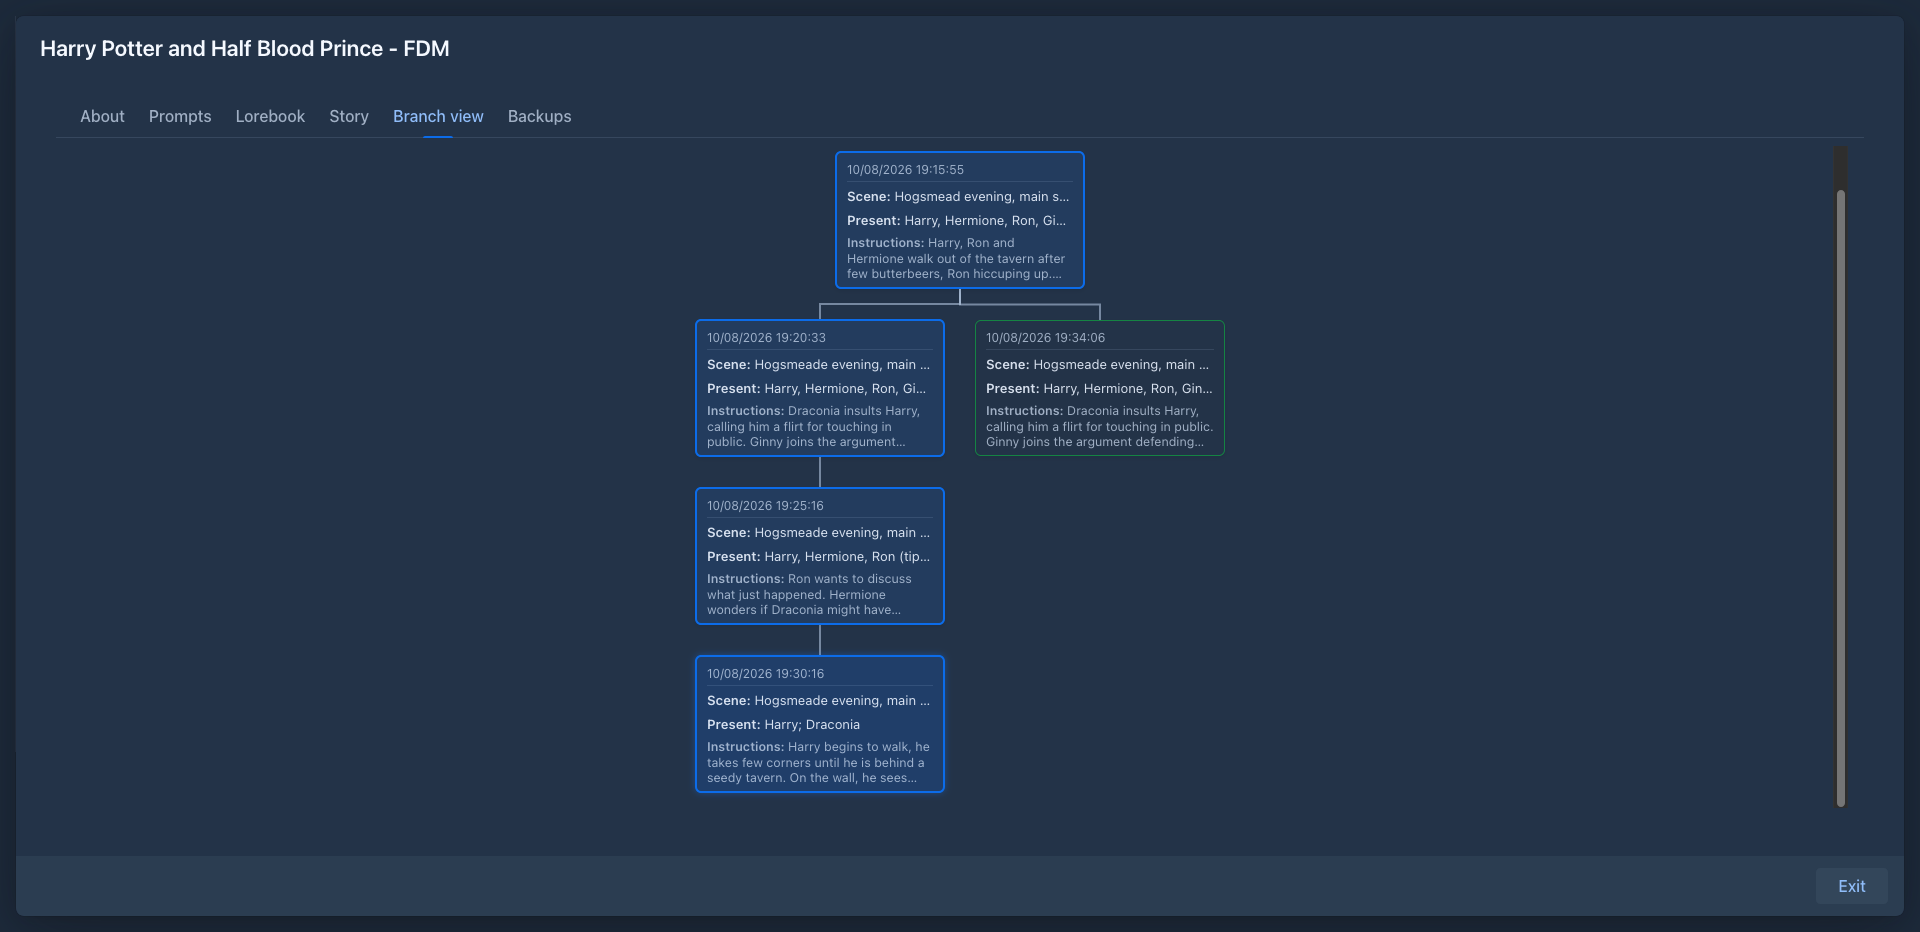
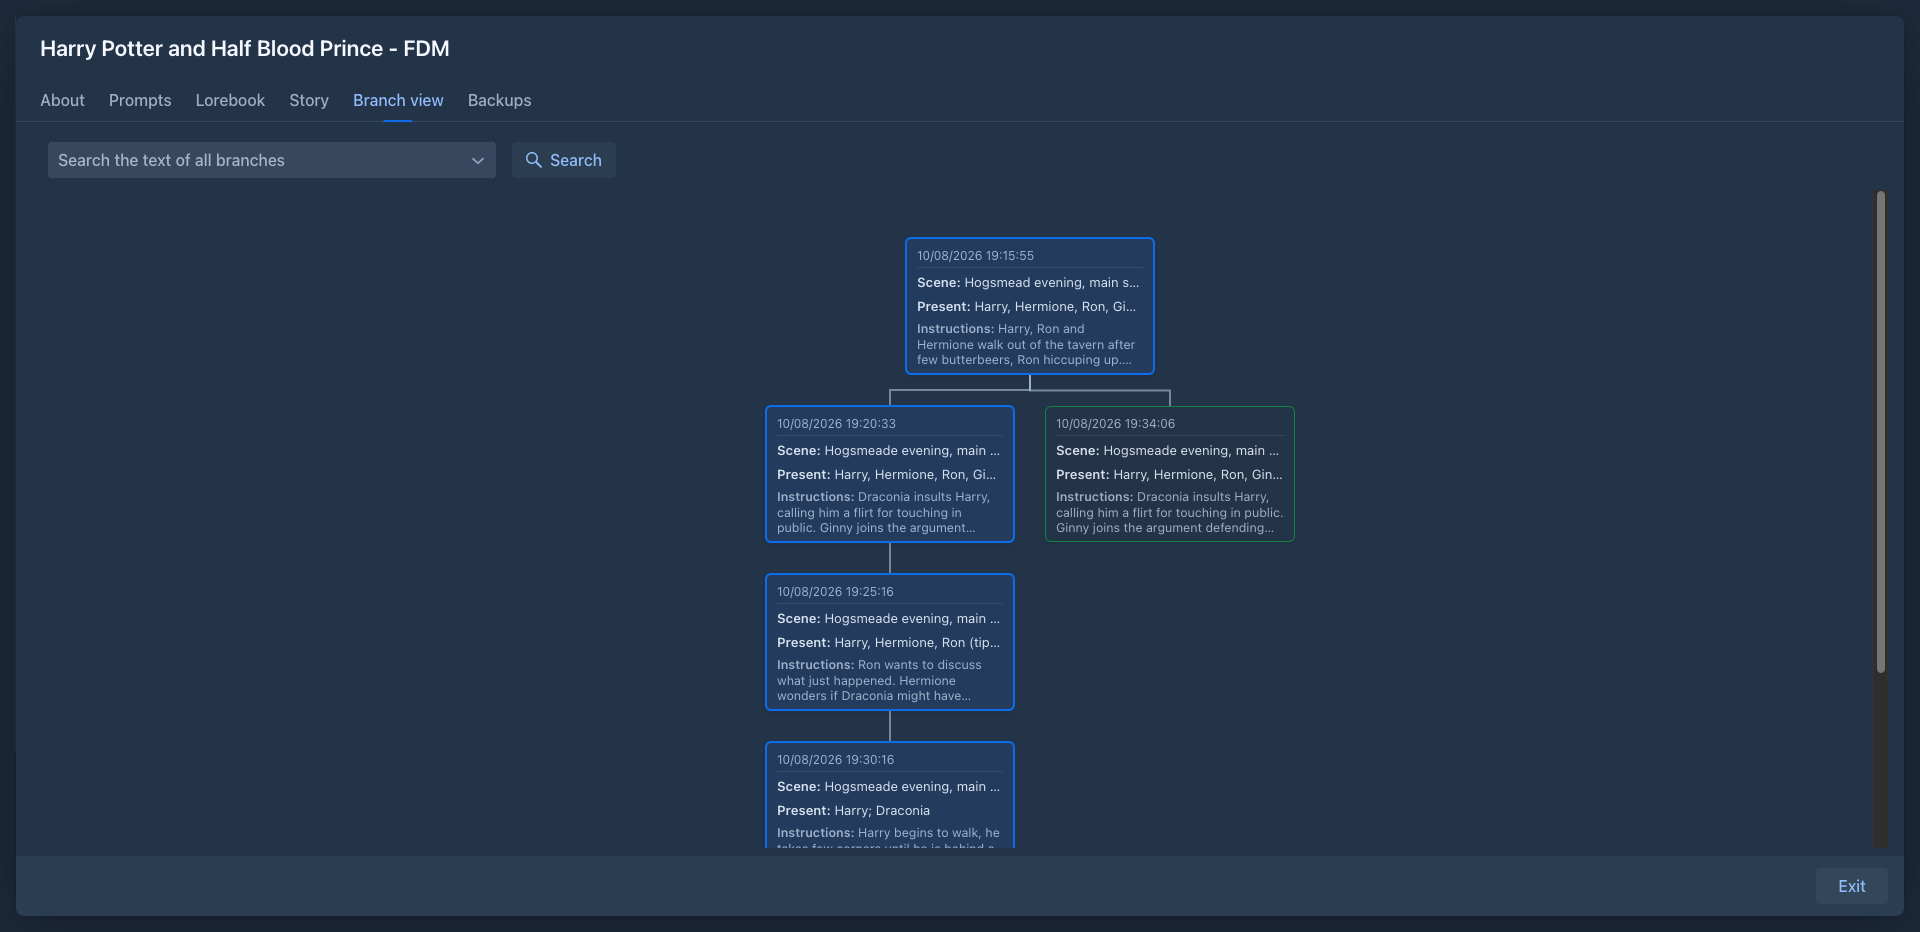
Increment Retype version identifiers across developer docs, update `_fulltext` coverage and migration details, and enhance search and testing documentation

diff --git a/manual/developer/testing.md b/manual/developer/testing.md
@@ -67,7 +67,7 @@ fake is the model server.
 | `test/llm` | `MockLLMServerTest` | The fake OpenAI server against the real `openai-java` client. |
 | `crud` | `*CrudTest`, `OwnedCrudContract`, `ExtendableCrudContract` | Create, update, soft and hard delete, owner isolation and extended attributes of every entity. |
 | `db` | `FlywayMigrationTest`, `FulltextMigrationTest`, `DatabaseRestoreCheckTest` | Migrations on an empty, a V1 and a pre-Flyway database, followed by Hibernate schema validation (`FlywayMigrationTest` also checks that V9 keeps `manuscripts.description` in `extendedContent`); `FulltextMigrationTest` runs the app migration that fills `_fulltext` of existing rows on the Spring context; the check of a database before a restore and the fall back to the previous database when a restore fails on start (no Spring context). |
-| `domain` | `ExtendableEntityListenerTest`, `TokenLimitsTest`, `CronScheduleTest`, `SillyTavernEntryConverterTest`, `TemplateHelpersTest`, `OsgiServiceImplTest` | Smaller units: extended attribute serialization, token limits, cron parsing, SillyTavern conversion. `OsgiServiceImplTest` loads, replaces and unloads extensions on a real OSGi framework with test bundles built on the fly (`TestExtensionActivator`), including the verification reports that allow or refuse starting them; it has no Spring context. |
+| `domain` | `ExtendableEntityListenerTest`, `FulltextQueryTest`, `ChatMessageSearchTest`, `TokenLimitsTest`, `CronScheduleTest`, `SillyTavernEntryConverterTest`, `TemplateHelpersTest`, `OsgiServiceImplTest` | Smaller units: extended attribute serialization, token limits, cron parsing, SillyTavern conversion; `FulltextQueryTest` and `ChatMessageSearchTest` cover the full-text query (words, phrases, `*`, escaping) and the search over all branches with the choice of the branch that shows a part (Spring context). `OsgiServiceImplTest` loads, replaces and unloads extensions on a real OSGi framework with test bundles built on the fly (`TestExtensionActivator`), including the verification reports that allow or refuse starting them; it has no Spring context. |
 | `generation` | `GenerationRequestTest`, `LorebookActivationTest`, `BuiltPromptHistoryTest`, `ReservedTokensTest`, `FailedGenerationTest`, `ImageAttachmentGenerationTest`, `MetaSummaryTest` | Full generations: what is sent to the model, which lore is activated and where it goes, the story history in the prompt (new part, swipe, regenerate), tokens reserved by extensions, a failed request leaving the story unchanged, images staying with a part and never reaching the model, meta summaries and the summary chain. |
 | `templates` | `TemplateServiceTest`, `MacroRenderingTest`, `MacroLorebookFixtureTest`, `DefaultTemplatesTest` | Handlebars rendering and SillyTavern macros; the built-in templates. |
 | `lorebook` | `LorebookImportExportTest` | Marginalia and SillyTavern lorebook import and export. |
@@ -75,11 +75,11 @@ fake is the model server.
 | `export` | `ExporterTest`, `ExporterImagesTest` | The story exporters (TXT, Markdown, HTML, DOCX, PDF, EPUB): text and Unicode, linked contents and chapter navigation, splitting of long stories, embedded images. |
 | `security` | `ApiKeyEncryptionTest` | API keys stored encrypted with the installation key; the app migration encrypting plain ones. |
 | `utils` | `ClientAddressResolverTest` | The client address: the header is ignored without trusted proxies and from any other peer, chains of proxies, CIDR ranges, no host name lookups (no Spring context). |
-| `ui` | `ResourcesPartTest` | The Resources tab grid: lazy paging, only the user's files, deleting the selection. The only test that builds a Vaadin component. |
+| `ui` | `ResourcesPartTest`, `BranchSearchTest` | The Resources tab grid: lazy paging, only the user's files, deleting the selection. The search of the branch view (`ManuscriptTreePart` with a stand-in for the book window): the result line, "Show in story" switching the active branch and ignoring ids of other books. They build Vaadin components without a UI session. |
 | `cleanup` | `CleanupServiceTest`, `TrashServiceTest` | Purging soft-deleted data, owned data, strong and weak references; the trash: own objects only, administrator sees all, restore refused while a deleted parent is not restored with it, extended content. |
 | `instruct` | `ExtendableMethodVisitorTest`, `RuntimeInstrumentationTest`, `ExtensionVerifierTest` | The bytecode instrumentation of `@Extendable` methods and the runtime agent; the verification of extensions against the application. |
 
-Not covered by automated tests: the Vaadin UI (apart from `ResourcesPartTest`), the bundled plugins, and the desktop launcher
+Not covered by automated tests: the Vaadin UI (apart from `ResourcesPartTest` and `BranchSearchTest`), the bundled plugins, and the desktop launcher
 (the [CI smoke test](packaging.md#continuous-integration) only checks that the packaged app starts).
 
 ## Test bases

diff --git a/manual/developer/services.md b/manual/developer/services.md
@@ -135,7 +135,7 @@ without any user and only use installation-wide data (`getOrCreateApp`).
 | Service | Responsible for |
 |---|---|
 | `ManuscriptService` | Books: search and sort (`searchManuscripts` → ids), `findViewable(uuid)` (own or published, for the viewer), `markOpened`, the effective prompts of a book (`getMasterTemplate`, `getPov`, `getTense`, `getStyle`, `getUserPrompt`, `getSummaryPrompt`, `getMetaSummaryPrompt`: book value → user default → `Defaults`), the effective backup strategy, and the JSON form of a book used by backups (`createBackup`, `cloneFromBackup`, `restoreBackup`). |
-| `ChatMessageService` | The story tree: `createRoot`, `addChild`, `getBranchFromLeaf`, `getSwipesForMessage` (siblings), `swipeTo` (sets the book's active leaf to the deepest last descendant - the caller saves the book), `branch` (copy as sibling), `deleteNodeAndMigrateChildren`, word and token sums, `countWords`. |
+| `ChatMessageService` | The story tree: `createRoot`, `addChild`, `getBranchFromLeaf`, `getSwipesForMessage` (siblings), `swipeTo` (sets the book's active leaf to the deepest last descendant - the caller saves the book), `branch` (copy as sibling), `deleteNodeAndMigrateChildren`, word and token sums, `countWords`. `searchFulltext(book, query)` finds parts of all branches by their `_fulltext` (see [Full-text search](domain-model.md#full-text-search)); `findLeafFor(book, part)` picks the end of the branch that shows a part. |
 | `SummaryService` | `createSummary(book, part, callback)` streams a summary from the model into a new `Summary` and attaches it to the part when finished; returns a `CancellationToken`. `createMetaSummary(book, from, to, callback)` does the same for a meta summary: it merges the summaries in use between the parts `from` (newest) and `to` (oldest, rounded to the end of its block), puts the result on `from` (`attachMetaSummary`) and returns `null` when there is nothing to merge. `removeSummary(part, unwind)` deletes the summary of a part, restoring the one a meta summary replaced when `unwind` is set. `updateSummaryText` edits a text and counts its tokens again. `collectBlocks(branch)` splits the branch into the summary blocks in use (with their hashes, `SummaryBlock.isValid()`), `collectTree(...)` returns the same as a tree of `SummaryNode`s with the summaries a meta summary stands in for as children (the overview uses it). `copySummary` for branching. See [the summary chain](domain-model.md#the-summary-chain). |
 | `StoryGenerationService` | Generating parts, see [Generation pipeline](generation-pipeline.md). |
 | `ExporterService` | Registry of story exporters (`registerExporter`, `unregisterExporter`, `getExporters`). The built-in `TxtExporter`, `MarkdownExporter`, `HtmlExporter`, `DocxExporter`, `PdfExporter` and `EpubExporter` (package `export`, all extend `ExporterBase`) are registered in `afterPropertiesSet`; an extension can register its own `Exporter` and it shows in the export dialog. See [Story export](#story-export). |

diff --git a/manual/user/books/branches-and-story-tree.md b/manual/user/books/branches-and-story-tree.md
@@ -65,6 +65,37 @@ present and instructions; hover over a card to see all its details.
 - Long stretches without any branching (more than 20 parts) are collapsed into a block showing the first ten and the
   last ten parts. Click the block to show all parts.
 
+### Searching all branches
+
+The box above the tree searches the text of **all branches** of the book, not only the active one. Type what you are
+looking for and press **Enter** or click **Search**; the box remembers your last searches, pick one from the list to
+repeat it. The **x** in the box clears the search.
+
+- A part matches when its text contains **every word** you typed, in any order: `lighthouse key` finds the parts that
+  have both words. Put words in double quotes to look for a phrase: `"lighthouse key"`.
+- Use `*` for any characters: `light*` finds *lighthouse* and *lightning*. Other characters, including `%`, `_` and
+  `\`, are searched as they are.
+- Upper and lower case do not matter. For accented letters, a word typed in lower case also finds the same word in
+  UPPER CASE or Capitalized (`žluťoučký` finds *Žluťoučký* and *ŽLUŤOUČKÝ*).
+- Only the text of the parts is searched, not the instructions, scene setting or the lorebook. Parts that you deleted
+  are not searched.
+
+![The branch view with a search](../../images/story-tree-search.png)
+
+Every part that matches is **highlighted** in orange and shows the text around the match; the line above the tree says
+how many parts were found. Long stretches that would be collapsed are opened when they contain a match. The search
+stays until you clear it or close the book window, and the highlighting is updated when you come back to the tab.
+
+Click **Show in story** in a highlighted part to read it:
+
+- When the part is on the active branch, the book switches to the *Story* tab and scrolls to it.
+- When it is on another branch, that branch becomes the active branch first. It ends at the nearest end of a branch
+  below the found part (the newer one when there are two), so the story editor shows the story up to the found part and
+  what followed it. The book then switches to the *Story* tab and scrolls to the part, which flashes briefly.
+
+Switching the branch is the same as clicking the end of a branch in the tree: nothing is lost, the previous branch stays
+as it was and you can go back to it from the tree.
+
 ## Deleting parts and branches
 
 **Delete** in the menu of a part removes just that part. The parts after it move up and continue from the part before

diff --git a/manual/developer/ui.md b/manual/developer/ui.md
@@ -297,7 +297,24 @@ scroll handling in `ManuscriptStoryPart`.
 
 The only JavaScript module is `src/main/frontend/treant-connector.js`, loaded by `TreantTree` (`@JsModule`) together
 with the npm packages `treant-js` and `raphael` (`@NpmPackage`) and treant's CSS (`@CssImport`). It draws the story
-tree; `TreantTree` sends the tree as JSON and receives clicks back.
+tree; `TreantTree` sends the tree as JSON and receives clicks back: `node-click` (a card was clicked, with the
+`data-node-id` of the card) and `node-goto` (an element with `data-goto-id` inside a card was clicked; the card itself
+is not clicked then).
+
+### Searching the story tree
+
+`ManuscriptTreePart` has a search bar above the tree: an editable `ComboBox` (the last 15 searches; typed text is a
+custom value that the part sets as the value) and a button. A search calls `ChatMessageService.searchFulltext` and
+keeps the result as `lastQuery` and `hitSnippets` (part id → text around the match); `renderTree` then adds the CSS
+class `search-hit` (shared-styles.css) to the cards of the found parts and, in them, the snippet and a "Show in story"
+link (`data-goto-id`). Stretches of more than 20 parts that would be collapsed stay open when they contain a hit.
+The search is kept while the tab is open and repeated on every `onTabEnter`; `load` (opening the book) clears it.
+
+The link fires `NodeGotoEvent`. `onNodeGoto` resolves the id among the messages of the book only, asks
+`ChatMessageService.findLeafFor` for the end of the branch to show, makes it the book's active leaf when it is not
+(`ManuscriptDialog.save`) and calls `ManuscriptDialog.showMessage(id)`. That tells `ManuscriptStoryPart` which part to
+scroll to (`scrollToMessageOnNextRender`) and selects the story tab; entering the tab renders the story, which scrolls to
+the part (and flashes it) instead of restoring the saved scroll position.
 
 ### Styles
 

diff --git a/manual/developer/domain-model.md b/manual/developer/domain-model.md
@@ -191,6 +191,19 @@ should find, in one place, even when the text is spread over columns and JSON. F
 | `ChatMessage` | `response` |
 | `Summary` | `summary` |
 
+### Full-text search
+
+The only search over `_fulltext` so far is `ChatMessageService.searchFulltext(manuscript, query)`, used by the search of
+the story tree. `FulltextQuery.parse` splits the query into words (double quotes make a phrase); a part matches when its
+text contains every word. In SQL (`ChatMessageRepository.findFulltexts`) each word is a
+`_fulltext LIKE :pattern ESCAPE '\'`, built like the name filter of the book list (`LikePatterns.fromWildcards`): `*`
+becomes `%`, and `\`, `_` and `%` are escaped so they are searched as typed. Only the id and `_fulltext` of the
+messages are read, never the whole entity. SQLite's `LIKE` ignores case only for A-Z, so every word is also tried in
+lower case, upper case and capitalized (`FulltextQuery.likePatterns`), which covers accented letters in the usual
+spellings; a word written in mixed case in the text (`ŽlutÝ`) is not found by a differently cased query. The snippet
+shown with a hit is cut from the text by `FulltextQuery.snippet`. The service checks that the book belongs to the
+current user.
+
 Like `extendedContent`, the column is invisible to dirty checking of the fields, so it is only current after a
 service `save`. Marking a field of an entity that already has rows (or changing which fields are marked) leaves old
 rows out of date: add an app migration that calls `updateFulltext` for the entity, as `FulltextMigration` does (see

diff --git a/manual/developer/project-structure.md b/manual/developer/project-structure.md
@@ -146,7 +146,7 @@ Interfaces in `domain.service`, implementations in `domain.service.impl`:
 
 Also here: `TurnInput` (the four fields of the instruction panel), `SummaryNode` (a summary and the summaries it merges, for
 the summaries overview), `CancellationToken`, `GenerationListener` (UI
-callbacks of a generation) and `search/` (`Sorter`, `ManuscriptFilterValues` for the book lists).
+callbacks of a generation) and `search/` (`Sorter`, `ManuscriptFilterValues` for the book lists; `FulltextQuery`, `FulltextHit` and `LikePatterns` for the full-text search and `LIKE` patterns).
 
 | Package | |
 |---|---|
